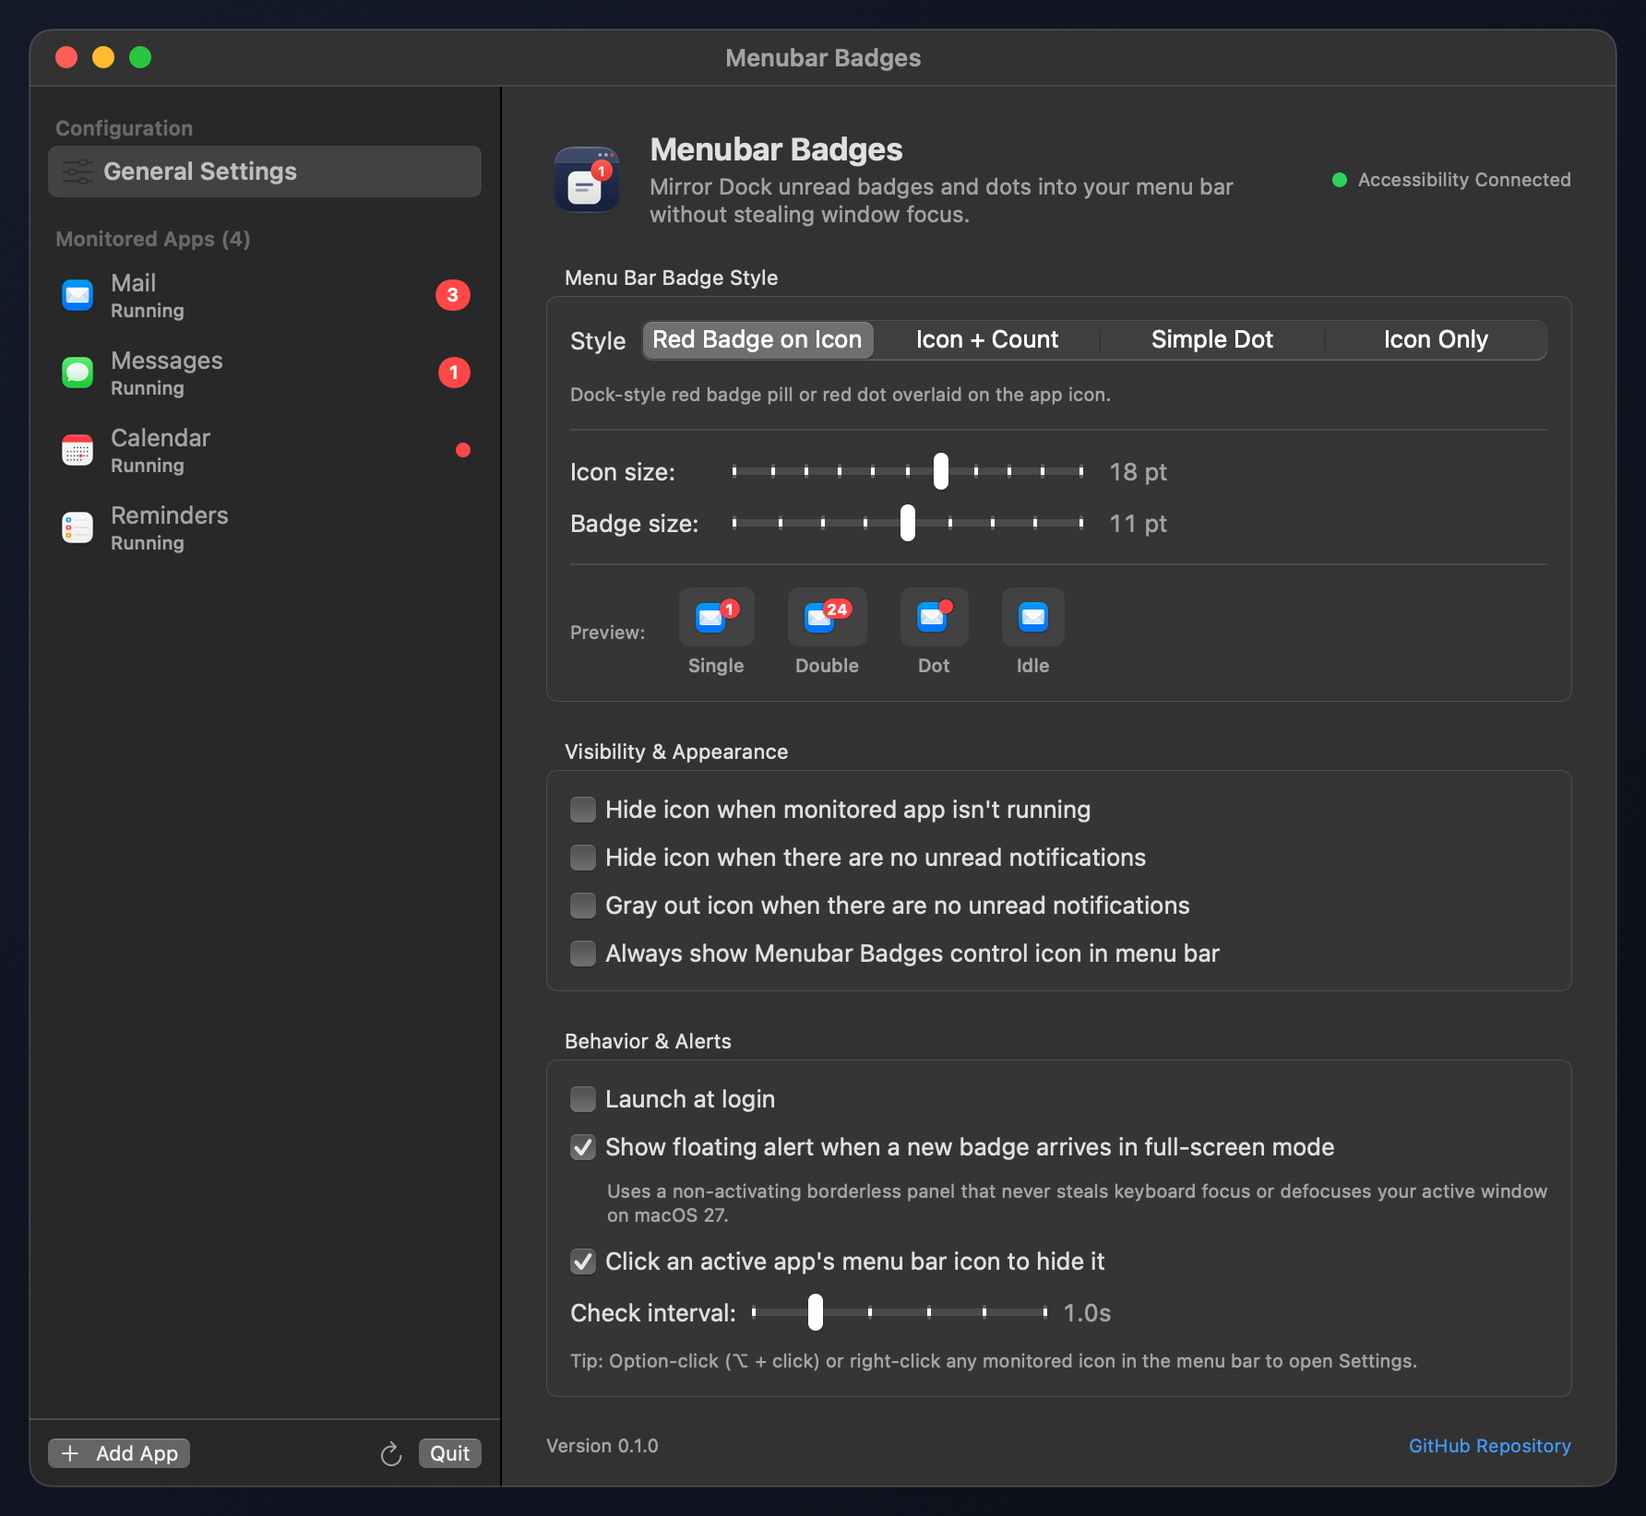
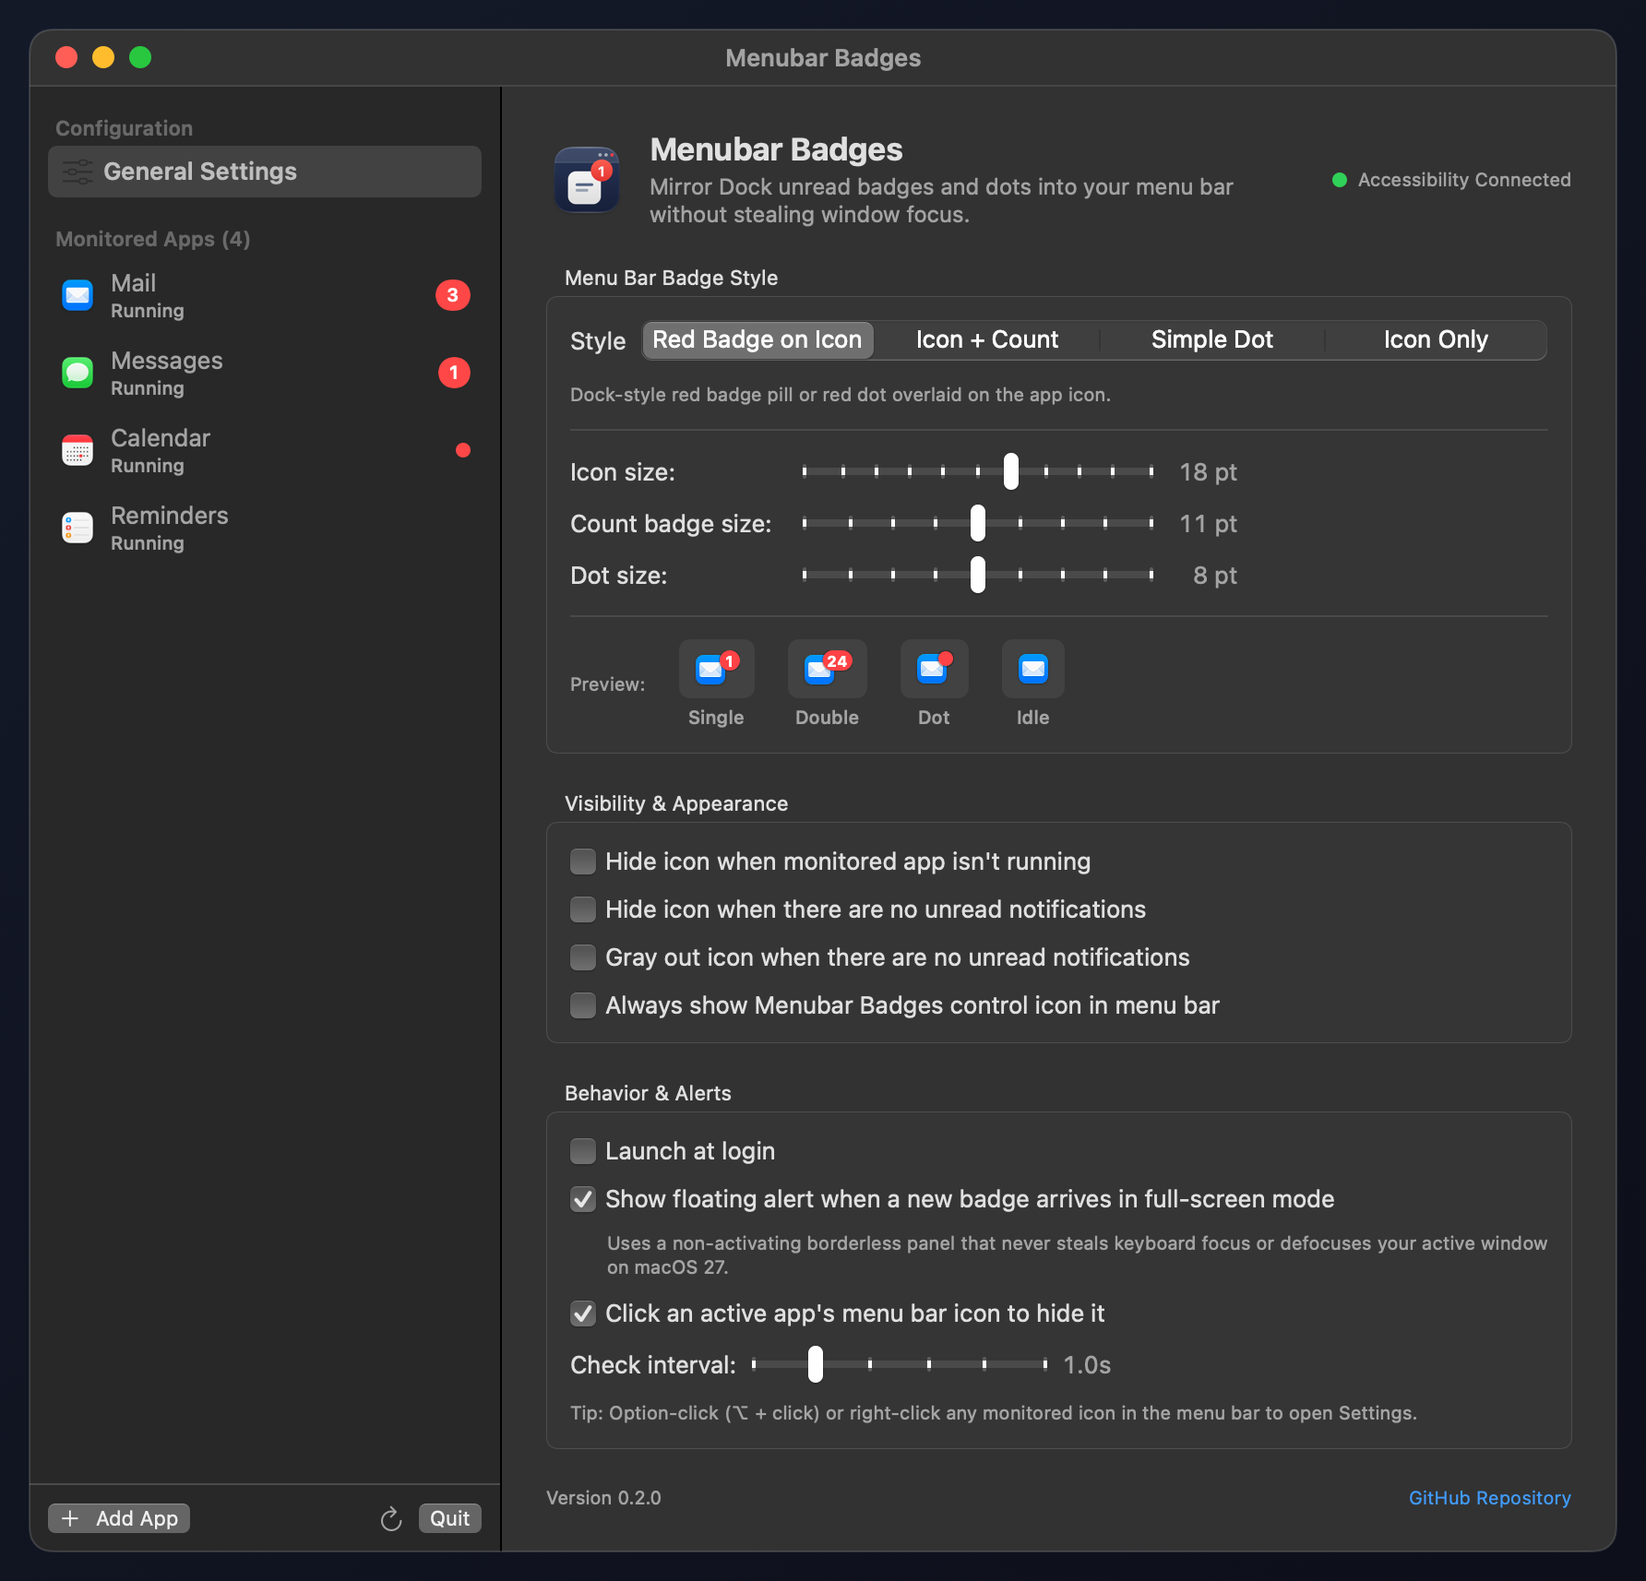
feat: add independent dot size slider and release v0.2.0

diff --git a/Sources/MenubarBadgesCore/BadgeIconRenderer.swift b/Sources/MenubarBadgesCore/BadgeIconRenderer.swift
@@ -6,12 +6,14 @@ public enum BadgeIconRenderer {
     public static let maxMenuBarHeight: CGFloat = 22.0
     public static let defaultIconSize: CGFloat = CGFloat(AppPreferences.defaultIconSize)
     public static let defaultBadgeSize: CGFloat = CGFloat(AppPreferences.defaultBadgeSize)
+    public static let defaultDotSize: CGFloat = CGFloat(AppPreferences.defaultDotSize)
 
     public struct RenderOptions: Equatable, Sendable {
         public var style: BadgeDisplayStyle
         public var countFormat: CountTextFormat
         public var iconSize: CGFloat
         public var badgeSize: CGFloat
+        public var dotSize: CGFloat
         public var grayOutWhenNoUnread: Bool
         public var invertInDarkMode: Bool
         public var monochrome: Bool
@@ -22,6 +24,7 @@ public enum BadgeIconRenderer {
             countFormat: CountTextFormat = .parenthesized,
             iconSize: CGFloat = BadgeIconRenderer.defaultIconSize,
             badgeSize: CGFloat = BadgeIconRenderer.defaultBadgeSize,
+            dotSize: CGFloat = BadgeIconRenderer.defaultDotSize,
             grayOutWhenNoUnread: Bool = false,
             invertInDarkMode: Bool = false,
             monochrome: Bool = false,
@@ -31,6 +34,7 @@ public enum BadgeIconRenderer {
             self.countFormat = countFormat
             self.iconSize = min(max(iconSize, CGFloat(AppPreferences.iconSizeRange.lowerBound)), CGFloat(AppPreferences.iconSizeRange.upperBound))
             self.badgeSize = min(max(badgeSize, CGFloat(AppPreferences.badgeSizeRange.lowerBound)), CGFloat(AppPreferences.badgeSizeRange.upperBound))
+            self.dotSize = min(max(dotSize, CGFloat(AppPreferences.dotSizeRange.lowerBound)), CGFloat(AppPreferences.dotSizeRange.upperBound))
             self.grayOutWhenNoUnread = grayOutWhenNoUnread
             self.invertInDarkMode = invertInDarkMode
             self.monochrome = monochrome
@@ -64,7 +68,8 @@ public enum BadgeIconRenderer {
                 on: preparedIcon,
                 badge: badge,
                 iconSize: options.iconSize,
-                badgeSize: options.badgeSize
+                badgeSize: options.badgeSize,
+                dotSize: options.dotSize
             )
             return RenderedStatusItemContent(image: image, title: "")
 
@@ -73,7 +78,7 @@ public enum BadgeIconRenderer {
                 on: preparedIcon,
                 hasUnread: badge.hasUnread,
                 iconSize: options.iconSize,
-                badgeSize: options.badgeSize
+                dotSize: options.dotSize
             )
             return RenderedStatusItemContent(image: image, title: "")
 
@@ -82,7 +87,7 @@ public enum BadgeIconRenderer {
                 let image = drawSideDot(
                     nextTo: preparedIcon,
                     iconSize: options.iconSize,
-                    badgeSize: options.badgeSize
+                    dotSize: options.dotSize
                 )
                 return RenderedStatusItemContent(image: image, title: "")
             } else {
@@ -137,19 +142,20 @@ public enum BadgeIconRenderer {
     }
 
     /// Draws a Dock-style red pill/circle badge (or red dot) at the top-right corner of the icon.
-    /// Dynamically adapts canvas dimensions to `iconSize` and `badgeSize` so counts are never clipped.
+    /// Dynamically adapts canvas dimensions to `iconSize`, `badgeSize`, and `dotSize` so badges never clip.
     public static func drawRedBadgeOverlay(
         on icon: NSImage,
         badge: BadgeValue,
         iconSize: CGFloat = BadgeIconRenderer.defaultIconSize,
-        badgeSize: CGFloat = BadgeIconRenderer.defaultBadgeSize
+        badgeSize: CGFloat = BadgeIconRenderer.defaultBadgeSize,
+        dotSize: CGFloat = BadgeIconRenderer.defaultDotSize
     ) -> NSImage {
         guard badge.hasUnread else {
             return drawResizedIcon(icon, size: NSSize(width: iconSize, height: iconSize))
         }
 
         guard let label = badge.compactOverlayLabel else {
-            return drawSimpleDotOverlay(on: icon, hasUnread: true, iconSize: iconSize, badgeSize: badgeSize)
+            return drawSimpleDotOverlay(on: icon, hasUnread: true, iconSize: iconSize, dotSize: dotSize)
         }
 
         let fontScale: CGFloat = label.count >= 3 ? 0.64 : 0.74
@@ -205,13 +211,13 @@ public enum BadgeIconRenderer {
         on icon: NSImage,
         hasUnread: Bool,
         iconSize: CGFloat = BadgeIconRenderer.defaultIconSize,
-        badgeSize: CGFloat = BadgeIconRenderer.defaultBadgeSize
+        dotSize: CGFloat = BadgeIconRenderer.defaultDotSize
     ) -> NSImage {
         guard hasUnread else {
             return drawResizedIcon(icon, size: NSSize(width: iconSize, height: iconSize))
         }
 
-        let dotDiameter = min(max(badgeSize * 0.70, 5.0), 12.0)
+        let dotDiameter = min(max(dotSize, 4.0), 12.0)
         let canvasHeight = min(maxMenuBarHeight, max(iconSize + 2.0, dotDiameter + 2.0))
         let iconDrawSize = min(iconSize, canvasHeight - 1.0)
         let canvasWidth = ceil(iconDrawSize + max(2.0, dotDiameter * 0.35))
@@ -246,9 +252,9 @@ public enum BadgeIconRenderer {
     public static func drawSideDot(
         nextTo icon: NSImage,
         iconSize: CGFloat = BadgeIconRenderer.defaultIconSize,
-        badgeSize: CGFloat = BadgeIconRenderer.defaultBadgeSize
+        dotSize: CGFloat = BadgeIconRenderer.defaultDotSize
     ) -> NSImage {
-        let dotDiameter = min(max(badgeSize * 0.62, 5.0), 11.0)
+        let dotDiameter = min(max(dotSize, 4.0), 12.0)
         let spacing: CGFloat = 3.5
         let canvasHeight = min(maxMenuBarHeight, max(iconSize + 2.0, dotDiameter + 2.0))
         let canvasSize = NSSize(width: ceil(iconSize + spacing + dotDiameter + 1.0), height: canvasHeight)

diff --git a/Sources/MenubarBadges/Views/SettingsView.swift b/Sources/MenubarBadges/Views/SettingsView.swift
@@ -290,7 +290,7 @@ private struct GeneralSettingsDetailView: View {
                 VStack(alignment: .leading, spacing: 8) {
                     HStack {
                         Text("Icon size:")
-                            .frame(width: 80, alignment: .leading)
+                            .frame(width: 118, alignment: .leading)
                         Slider(
                             value: $settings.preferences.iconSize,
                             in: AppPreferences.iconSizeRange,
@@ -305,26 +305,44 @@ private struct GeneralSettingsDetailView: View {
                         Spacer()
 
                         if settings.preferences.iconSize != AppPreferences.defaultIconSize
-                            || settings.preferences.badgeSize != AppPreferences.defaultBadgeSize {
+                            || settings.preferences.badgeSize != AppPreferences.defaultBadgeSize
+                            || settings.preferences.dotSize != AppPreferences.defaultDotSize {
                             Button("Reset Sizes") {
                                 settings.preferences.iconSize = AppPreferences.defaultIconSize
                                 settings.preferences.badgeSize = AppPreferences.defaultBadgeSize
+                                settings.preferences.dotSize = AppPreferences.defaultDotSize
                             }
                             .controlSize(.small)
                         }
                     }
 
                     HStack {
-                        Text("Badge size:")
-                            .frame(width: 80, alignment: .leading)
+                        Text("Count badge size:")
+                            .frame(width: 118, alignment: .leading)
                         Slider(
                             value: $settings.preferences.badgeSize,
                             in: AppPreferences.badgeSizeRange,
                             step: 1.0
                         )
                         .frame(width: 190)
-                        .disabled(settings.preferences.displayStyle == .iconOnly)
+                        .disabled(settings.preferences.displayStyle == .iconOnly || settings.preferences.displayStyle == .simpleDot)
                         Text("\(Int(settings.preferences.badgeSize)) pt")
+                            .monospacedDigit()
+                            .foregroundStyle(.secondary)
+                            .frame(width: 38, alignment: .trailing)
+                    }
+
+                    HStack {
+                        Text("Dot size:")
+                            .frame(width: 118, alignment: .leading)
+                        Slider(
+                            value: $settings.preferences.dotSize,
+                            in: AppPreferences.dotSizeRange,
+                            step: 1.0
+                        )
+                        .frame(width: 190)
+                        .disabled(settings.preferences.displayStyle == .iconOnly)
+                        Text("\(Int(settings.preferences.dotSize)) pt")
                             .monospacedDigit()
                             .foregroundStyle(.secondary)
                             .frame(width: 38, alignment: .trailing)
@@ -361,6 +379,7 @@ private struct GeneralSettingsDetailView: View {
                         countFormat: settings.preferences.countTextFormat,
                         iconSize: CGFloat(settings.preferences.iconSize),
                         badgeSize: CGFloat(settings.preferences.badgeSize),
+                        dotSize: CGFloat(settings.preferences.dotSize),
                         grayOutWhenNoUnread: settings.preferences.grayOutWhenNoUnread
                     )
                 )
@@ -435,7 +454,7 @@ private struct GeneralSettingsDetailView: View {
 
     private var footerSection: some View {
         HStack {
-            let version = Bundle.main.infoDictionary?["CFBundleShortVersionString"] as? String ?? "0.1.0"
+            let version = Bundle.main.infoDictionary?["CFBundleShortVersionString"] as? String ?? "0.2.0"
             Text("Version \(version)")
                 .font(.caption)
                 .foregroundStyle(.secondary)

diff --git a/Tests/MenubarBadgesCoreTests/MenubarBadgesCoreTests.swift b/Tests/MenubarBadgesCoreTests/MenubarBadgesCoreTests.swift
@@ -149,6 +149,31 @@ final class MenubarBadgesCoreTests: XCTestCase {
         XCTAssertGreaterThan(largeCount.titleFontSize, smallCount.titleFontSize)
         XCTAssertEqual(smallCount.image.size.width, 14)
         XCTAssertEqual(largeCount.image.size.width, 20)
+
+        // Verify dotSize scales dot rendering independently from badgeSize.
+        let smallDot = BadgeIconRenderer.renderStatusItem(
+            baseIcon: baseIcon,
+            badge: .dot,
+            options: .init(style: .redBadge, iconSize: 18, badgeSize: 14, dotSize: 4)
+        )
+        let largeDot = BadgeIconRenderer.renderStatusItem(
+            baseIcon: baseIcon,
+            badge: .dot,
+            options: .init(style: .redBadge, iconSize: 18, badgeSize: 8, dotSize: 12)
+        )
+        XCTAssertGreaterThan(largeDot.image.size.width, smallDot.image.size.width)
+
+        let sideDotSmall = BadgeIconRenderer.renderStatusItem(
+            baseIcon: baseIcon,
+            badge: .dot,
+            options: .init(style: .iconAndCount, iconSize: 18, badgeSize: 14, dotSize: 4)
+        )
+        let sideDotLarge = BadgeIconRenderer.renderStatusItem(
+            baseIcon: baseIcon,
+            badge: .dot,
+            options: .init(style: .iconAndCount, iconSize: 18, badgeSize: 8, dotSize: 12)
+        )
+        XCTAssertGreaterThan(sideDotLarge.image.size.width, sideDotSmall.image.size.width)
     }
 
     // MARK: - SettingsStore Persistence Tests
@@ -171,6 +196,7 @@ final class MenubarBadgesCoreTests: XCTestCase {
         store.preferences.displayStyle = .simpleDot
         store.preferences.iconSize = 20
         store.preferences.badgeSize = 13
+        store.preferences.dotSize = 10
         store.preferences.hideWhenNoUnread = true
 
         // Reload from same UserDefaults
@@ -180,6 +206,7 @@ final class MenubarBadgesCoreTests: XCTestCase {
         XCTAssertEqual(reloaded.preferences.displayStyle, .simpleDot)
         XCTAssertEqual(reloaded.preferences.iconSize, 20)
         XCTAssertEqual(reloaded.preferences.badgeSize, 13)
+        XCTAssertEqual(reloaded.preferences.dotSize, 10)
         XCTAssertTrue(reloaded.preferences.hideWhenNoUnread)
 
         reloaded.removeApp(bundleId: "com.apple.mail")
@@ -193,5 +220,6 @@ final class MenubarBadgesCoreTests: XCTestCase {
         XCTAssertTrue(decoded.hideWhenNoUnread)
         XCTAssertEqual(decoded.iconSize, AppPreferences.defaultIconSize)
         XCTAssertEqual(decoded.badgeSize, AppPreferences.defaultBadgeSize)
+        XCTAssertEqual(decoded.dotSize, AppPreferences.defaultDotSize)
     }
 }

diff --git a/Sources/MenubarBadgesCore/Models.swift b/Sources/MenubarBadgesCore/Models.swift
@@ -187,10 +187,14 @@ public struct AppPreferences: Codable, Equatable, Sendable {
     public static let defaultBadgeSize: Double = 11.0
     public static let badgeSizeRange: ClosedRange<Double> = 7.0...15.0
 
+    public static let defaultDotSize: Double = 8.0
+    public static let dotSizeRange: ClosedRange<Double> = 4.0...12.0
+
     public var displayStyle: BadgeDisplayStyle = .redBadge
     public var countTextFormat: CountTextFormat = .parenthesized
     public var iconSize: Double = AppPreferences.defaultIconSize
     public var badgeSize: Double = AppPreferences.defaultBadgeSize
+    public var dotSize: Double = AppPreferences.defaultDotSize
     public var hideWhenAppNotRunning: Bool = false
     public var hideWhenNoUnread: Bool = false
     public var grayOutWhenNoUnread: Bool = false
@@ -207,6 +211,7 @@ public struct AppPreferences: Codable, Equatable, Sendable {
         countTextFormat = try container.decodeIfPresent(CountTextFormat.self, forKey: .countTextFormat) ?? .parenthesized
         iconSize = try container.decodeIfPresent(Double.self, forKey: .iconSize) ?? Self.defaultIconSize
         badgeSize = try container.decodeIfPresent(Double.self, forKey: .badgeSize) ?? Self.defaultBadgeSize
+        dotSize = try container.decodeIfPresent(Double.self, forKey: .dotSize) ?? Self.defaultDotSize
         hideWhenAppNotRunning = try container.decodeIfPresent(Bool.self, forKey: .hideWhenAppNotRunning) ?? false
         hideWhenNoUnread = try container.decodeIfPresent(Bool.self, forKey: .hideWhenNoUnread) ?? false
         grayOutWhenNoUnread = try container.decodeIfPresent(Bool.self, forKey: .grayOutWhenNoUnread) ?? false

diff --git a/Sources/MenubarBadges/StatusItemController.swift b/Sources/MenubarBadges/StatusItemController.swift
@@ -17,6 +17,7 @@ final class StatusItemController: NSObject, NSMenuDelegate {
         var countFormat: CountTextFormat
         var iconSize: Double
         var badgeSize: Double
+        var dotSize: Double
         var grayOutWhenNoUnread: Bool
         var invertInDarkMode: Bool
         var monochromeIcon: Bool
@@ -82,6 +83,7 @@ final class StatusItemController: NSObject, NSMenuDelegate {
             countFormat: preferences.countTextFormat,
             iconSize: preferences.iconSize,
             badgeSize: preferences.badgeSize,
+            dotSize: preferences.dotSize,
             grayOutWhenNoUnread: preferences.grayOutWhenNoUnread,
             invertInDarkMode: app.invertIconInDarkMode,
             monochromeIcon: app.monochromeIcon,
@@ -169,6 +171,7 @@ final class StatusItemController: NSObject, NSMenuDelegate {
             countFormat: state.countFormat,
             iconSize: CGFloat(state.iconSize),
             badgeSize: CGFloat(state.badgeSize),
+            dotSize: CGFloat(state.dotSize),
             grayOutWhenNoUnread: state.grayOutWhenNoUnread,
             invertInDarkMode: state.invertInDarkMode,
             monochrome: state.monochromeIcon,

diff --git a/Sources/MenubarBadges/Views/AppDetailView.swift b/Sources/MenubarBadges/Views/AppDetailView.swift
@@ -85,6 +85,7 @@ struct AppDetailView: View {
                                     countFormat: settings.preferences.countTextFormat,
                                     iconSize: CGFloat(settings.preferences.iconSize),
                                     badgeSize: CGFloat(settings.preferences.badgeSize),
+                                    dotSize: CGFloat(settings.preferences.dotSize),
                                     grayOutWhenNoUnread: settings.preferences.grayOutWhenNoUnread,
                                     invertInDarkMode: currentApp.invertIconInDarkMode,
                                     monochrome: currentApp.monochromeIcon,

diff --git a/Sources/MenubarBadges/ScreenshotRenderer.swift b/Sources/MenubarBadges/ScreenshotRenderer.swift
@@ -50,7 +50,7 @@ enum ScreenshotRenderer {
         renderWindowScreenshot(
             view: SettingsView(coordinator: coordinator),
             title: "Menubar Badges",
-            size: NSSize(width: 860, height: 790),
+            size: NSSize(width: 860, height: 825),
             appearance: NSAppearance(named: .darkAqua),
             to: outURL.appendingPathComponent("settings-general.png")
         )

diff --git a/README.md b/README.md
@@ -26,7 +26,7 @@ Live previews and per-app overrides (dark mode invert, monochrome style, custom 
   - **Icon + Count** — App icon followed by `(1)`, `1`, or a crisp red dot using `NSStatusItem.variableLength`.
   - **Simple Dot** — App icon with a minimal red unread dot whenever any badge is present.
   - **Icon Only** — Clean app icon (pairs great with *Hide when no unread* or *Gray out when no unread*).
-  - **Icon Size & Badge Size** — Fine-tune icon size (`12–22 pt`) and badge size (`7–15 pt`) with live preview.
+  - **Independent Sizing** — Configure **Icon size** (`12–22 pt`), **Count badge size** (`7–15 pt` for single/double/multi-digit badges), and **Dot size** (`4–12 pt`) independently with live preview.
 - **Reliable Dock Matching**: Matches Dock items by bundle identifier (`AXURL`) first rather than fragile localized title-only matching, and automatically re-arms Dock Accessibility observers if the Dock process restarts.
 - **All Essential Features**:
   - Left-click any icon to jump straight to the app (or hide it if it's already frontmost).
@@ -52,10 +52,10 @@ Requires macOS 13+ and Swift 6 / Xcode.
 swift test
 
 # Build release MenubarBadges.app into ./dist/MenubarBadges.app
-./Scripts/build-app.sh 0.1.0
+./Scripts/build-app.sh 0.2.0
 
-# Build distributable DMG into ./dist/MenubarBadges-0.1.0.dmg
-./Scripts/build-dmg.sh 0.1.0
+# Build distributable DMG into ./dist/MenubarBadges-0.2.0.dmg
+./Scripts/build-dmg.sh 0.2.0
 
 # Run live macOS focus-safety verification
 ./dist/MenubarBadges.app/Contents/MacOS/MenubarBadges --verify-focus-safety
